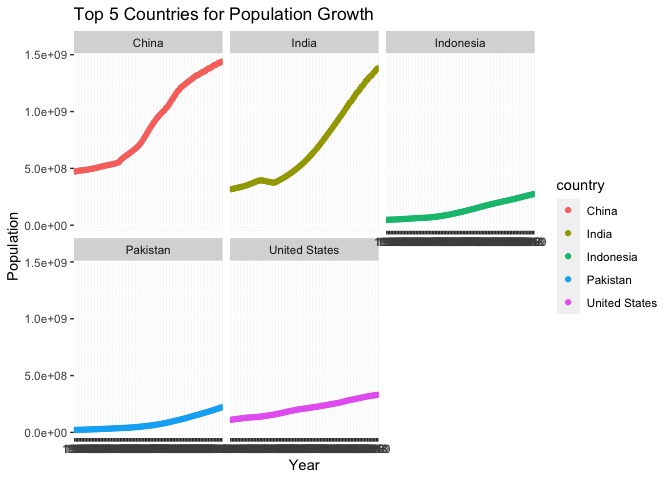
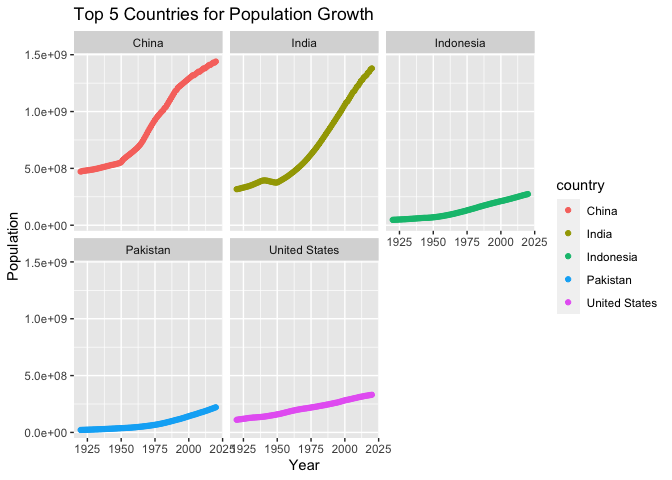
midterm 2 update

Changed region(s): [[0.0938, 0.125, 0.8125, 0.5312], [0.0938, 0.5312, 0.5938, 0.9688]]

diff --git a/midterm2/midterm_2.md b/midterm2/midterm_2.md
@@ -1184,7 +1184,7 @@ kuwait
 
 ```r
 kuwait%>%
-  ggplot(aes(x=as.factor(year),y=life_expect, group=country, color=country))+geom_point()+geom_line()+labs(title="Kuwait Life Expectancy from 1920 to 2020", x="Year", y="Life Expectancy")
+  ggplot(aes(x=as.numeric(year),y=life_expect, group=country, color=country))+geom_point()+geom_line()+labs(title="Kuwait Life Expectancy from 1920 to 2020", x="Year", y="Life Expectancy")
 ```
 
 ![](midterm_2_files/figure-html/unnamed-chunk-19-1.png)<!-- -->
@@ -1219,7 +1219,7 @@ Here we can see that the top contries in the past 100 years for population growt
 ```r
 population_long %>%
   filter(year<2021, year>1919, country == "India"|country == "China"|country == "Indonesia"|country == "United States"|country == "Pakistan")%>%
-  ggplot(aes(x=year, y=population_tot, color=country)) + geom_point() + facet_wrap(~country)+
+  ggplot(aes(x=as.numeric(year), y=population_tot, color=country)) + geom_point() + facet_wrap(~country)+
   labs(title = "Top 5 Countries for Population Growth", x = "Year", y = "Population")
 ```
 
@@ -1256,7 +1256,7 @@ income_per%>%
 ```r
 income_long%>% 
    filter(country %in% c("Qatar", "Luxembourg", "Singapore", "Brunei", "Ireland"),between(year,1920,2020))%>%
-  ggplot(aes(x=year, y=income_per_person,  group=country,color=country))+geom_point()+geom_line()+facet_wrap(~country) + labs(title="Top 5 Countries Income from 1920 until 2020", x="Year", y="GDP")
+  ggplot(aes(x=as.numeric(year), y=income_per_person,  group=country,color=country))+geom_point()+geom_line()+facet_wrap(~country) + labs(title="Top 5 Countries Income from 1920 until 2020", x="Year", y="GDP")
 ```
 
 ![](midterm_2_files/figure-html/unnamed-chunk-23-1.png)<!-- -->
